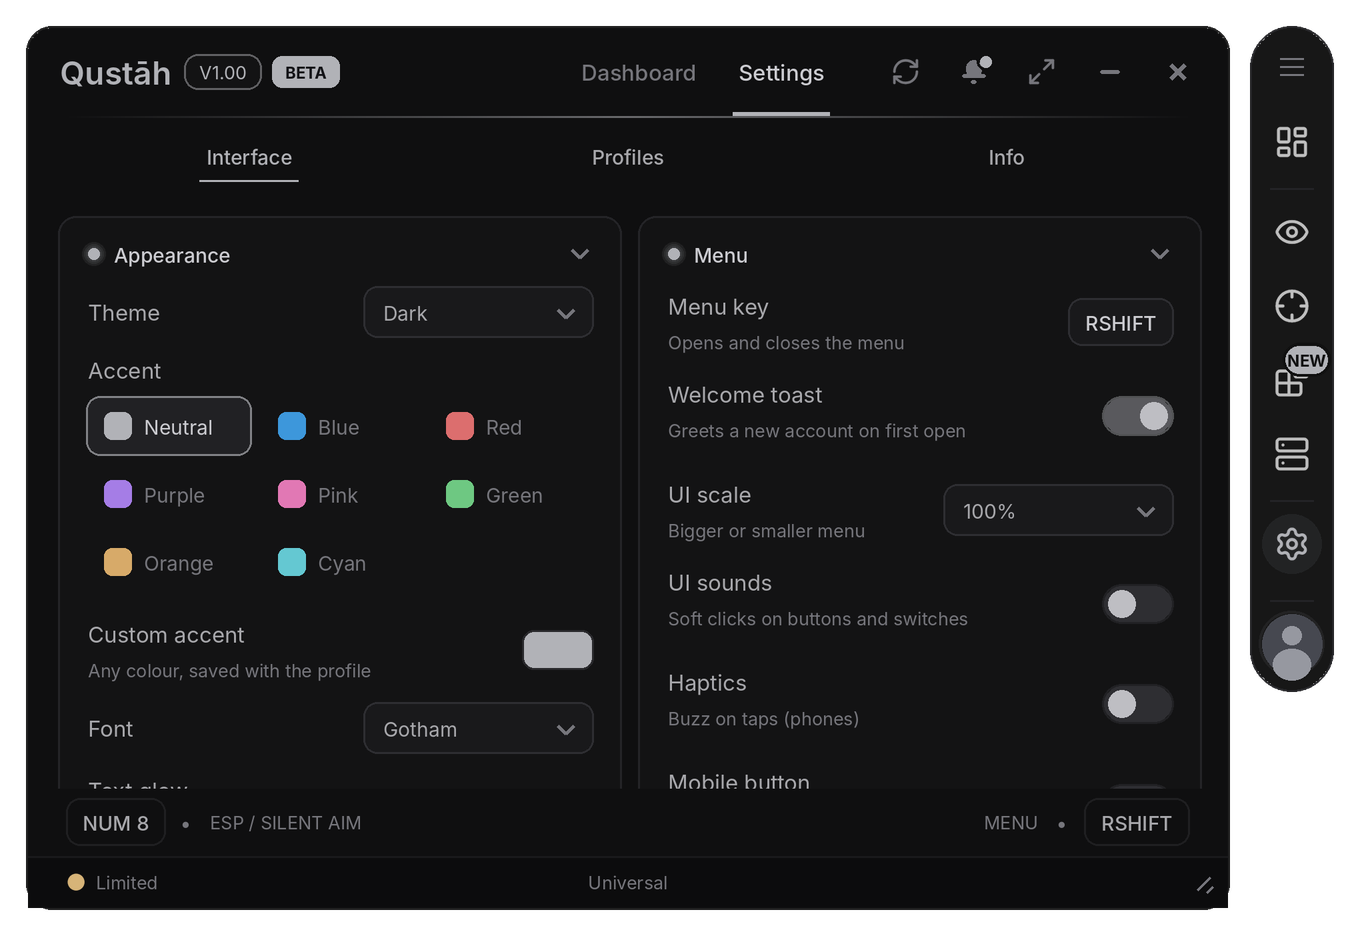
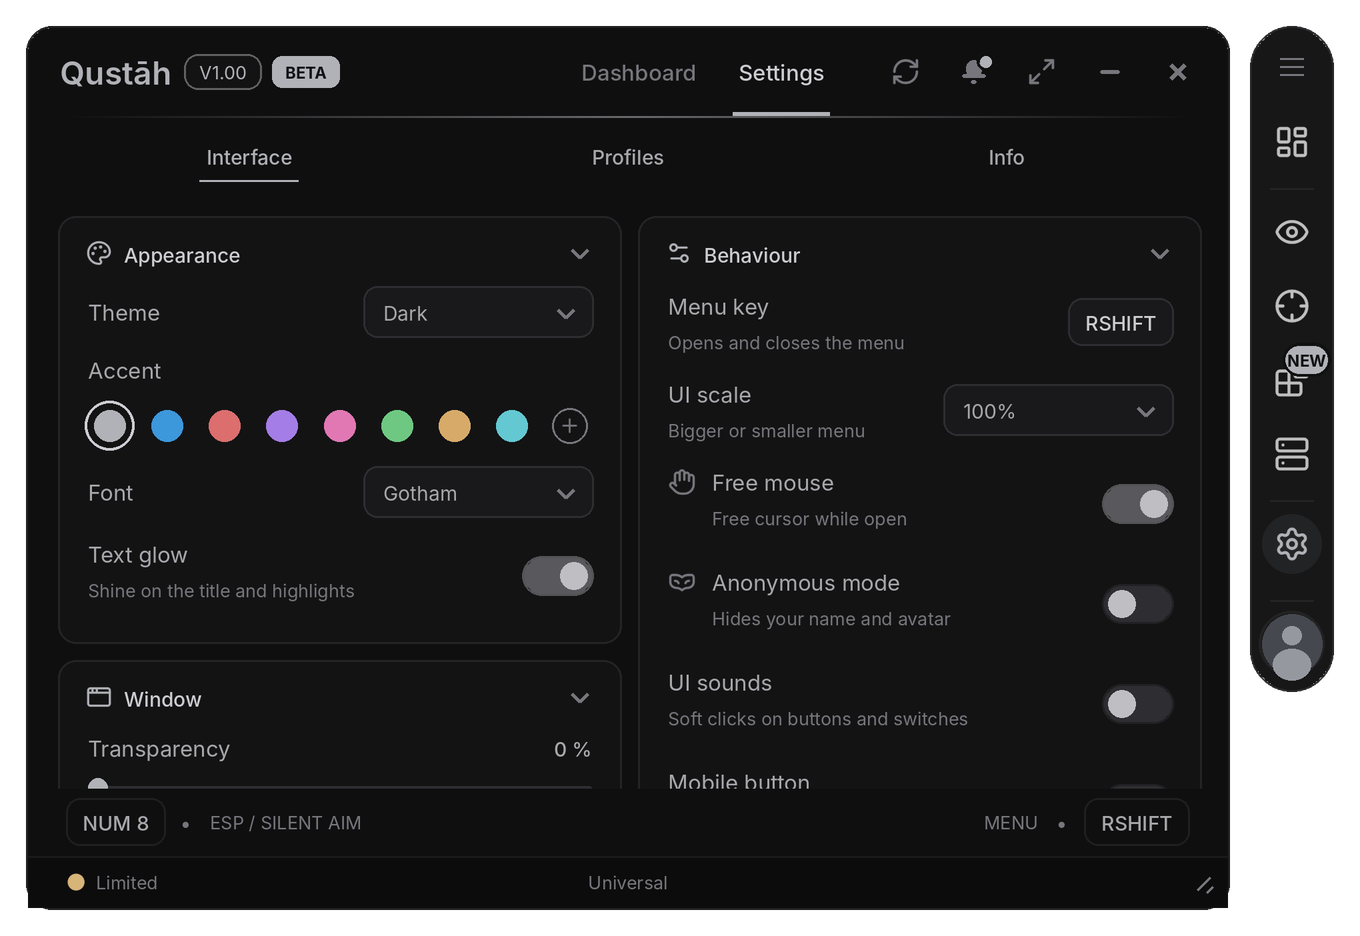
qustah-ui-lib 1.9.13: two-line module tiles, placeholder colours follow the theme, README settings sections, fresh screenshots
Claude-Session: https://claude.ai/code/session_01F9nBRS4QB8RgE2SXH9SdRt

diff --git a/README.md b/README.md
@@ -2,7 +2,7 @@
 
 ![Qustah UI](qustah-ui-lib/assets/banner.png)
 
-![version](https://img.shields.io/badge/version-1.9.12-2b2b2f?style=flat-square&labelColor=18181a)
+![version](https://img.shields.io/badge/version-1.9.13-2b2b2f?style=flat-square&labelColor=18181a)
 ![luau](https://img.shields.io/badge/Luau-executor-2b2b2f?style=flat-square&labelColor=18181a)
 ![size](https://img.shields.io/badge/min-420_KB-2b2b2f?style=flat-square&labelColor=18181a)
 ![elements](https://img.shields.io/badge/elements-30-2b2b2f?style=flat-square&labelColor=18181a)
@@ -676,20 +676,17 @@ Window:DashboardTab({ Info = { { "Code revision", "571" } }, Server = true })   
 Window:SettingsTab()                                                             -- as the last tab
 ```
 
-**Dashboard:** profile card (avatar, name, session time and live FPS / ping / players chips), Session (account, executor, version and your `Info` rows; the ids folded under "Details"), Modules (a grid of tiles), Server (Rejoin, Server hop, Job ID).
+**Dashboard:** profile card (avatar, name, session time and live FPS / ping / players chips), Session (account, executor, version and your `Info` rows; the ids folded under "Details"), Modules (a grid of tiles: icon, name and the state under it in its colour), Server (Rejoin, Server hop, Job ID).
 
 **Settings › Interface**
-- theme, accent (presets and custom colour), font, text glow
-- theme editor
-- menu key, welcome toast
-- menu: UI scale, UI sounds, haptics, mobile button
-- window: anonymous mode, transparency, background, free mouse, live background, edge glow, blur, fullscreen
-- overlays
-- Unload
+- Appearance: theme, accent (a row of colour dots; the last one opens a picker for any colour), font, text glow
+- Window: transparency, background image (and its visibility once one is set), animated background, edge glow, blur
+- Behaviour: menu key, UI scale, free mouse, anonymous mode, UI sounds, haptics (touch devices), mobile button, welcome toast, Reset layout, Unload, Reset interface (only the look goes back to its defaults)
+- Overlays, Theme editor
 
 **Settings › Profiles:** see [Configs and profiles](#configs-and-profiles).
 
-**Settings › Info:** versions, secure mode state, kick list, modules, errors (Debug mode, Copy report, Clear), "What's new" and "Show the tour" when those are set.
+**Settings › Info:** versions, secure mode state, link buttons (`Links`), "What's new", "Show the tour" and "Version history" when those are set, kick list, modules, errors (a Debug switch in the card's title, Copy debug info, Clear), and This session (uptime, errors caught, your `Window:Count` counters, Lua memory).
 
 ## Overlays
 

diff --git a/qustah-ui-lib/README.md b/qustah-ui-lib/README.md
@@ -2,7 +2,7 @@
 
 ![Qustah UI](assets/banner.png)
 
-![version](https://img.shields.io/badge/version-1.9.12-2b2b2f?style=flat-square&labelColor=18181a)
+![version](https://img.shields.io/badge/version-1.9.13-2b2b2f?style=flat-square&labelColor=18181a)
 ![luau](https://img.shields.io/badge/Luau-executor-2b2b2f?style=flat-square&labelColor=18181a)
 ![size](https://img.shields.io/badge/min-420_KB-2b2b2f?style=flat-square&labelColor=18181a)
 ![elements](https://img.shields.io/badge/elements-30-2b2b2f?style=flat-square&labelColor=18181a)
@@ -676,20 +676,17 @@ Window:DashboardTab({ Info = { { "Code revision", "571" } }, Server = true })   
 Window:SettingsTab()                                                             -- as the last tab
 ```
 
-**Dashboard:** profile card (avatar, name, session time and live FPS / ping / players chips), Session (account, executor, version and your `Info` rows; the ids folded under "Details"), Modules (a grid of tiles), Server (Rejoin, Server hop, Job ID).
+**Dashboard:** profile card (avatar, name, session time and live FPS / ping / players chips), Session (account, executor, version and your `Info` rows; the ids folded under "Details"), Modules (a grid of tiles: icon, name and the state under it in its colour), Server (Rejoin, Server hop, Job ID).
 
 **Settings › Interface**
-- theme, accent (presets and custom colour), font, text glow
-- theme editor
-- menu key, welcome toast
-- menu: UI scale, UI sounds, haptics, mobile button
-- window: anonymous mode, transparency, background, free mouse, live background, edge glow, blur, fullscreen
-- overlays
-- Unload
+- Appearance: theme, accent (a row of colour dots; the last one opens a picker for any colour), font, text glow
+- Window: transparency, background image (and its visibility once one is set), animated background, edge glow, blur
+- Behaviour: menu key, UI scale, free mouse, anonymous mode, UI sounds, haptics (touch devices), mobile button, welcome toast, Reset layout, Unload, Reset interface (only the look goes back to its defaults)
+- Overlays, Theme editor
 
 **Settings › Profiles:** see [Configs and profiles](#configs-and-profiles).
 
-**Settings › Info:** versions, secure mode state, kick list, modules, errors (Debug mode, Copy report, Clear), "What's new" and "Show the tour" when those are set.
+**Settings › Info:** versions, secure mode state, link buttons (`Links`), "What's new", "Show the tour" and "Version history" when those are set, kick list, modules, errors (a Debug switch in the card's title, Copy debug info, Clear), and This session (uptime, errors caught, your `Window:Count` counters, Lua memory).
 
 ## Overlays
 
